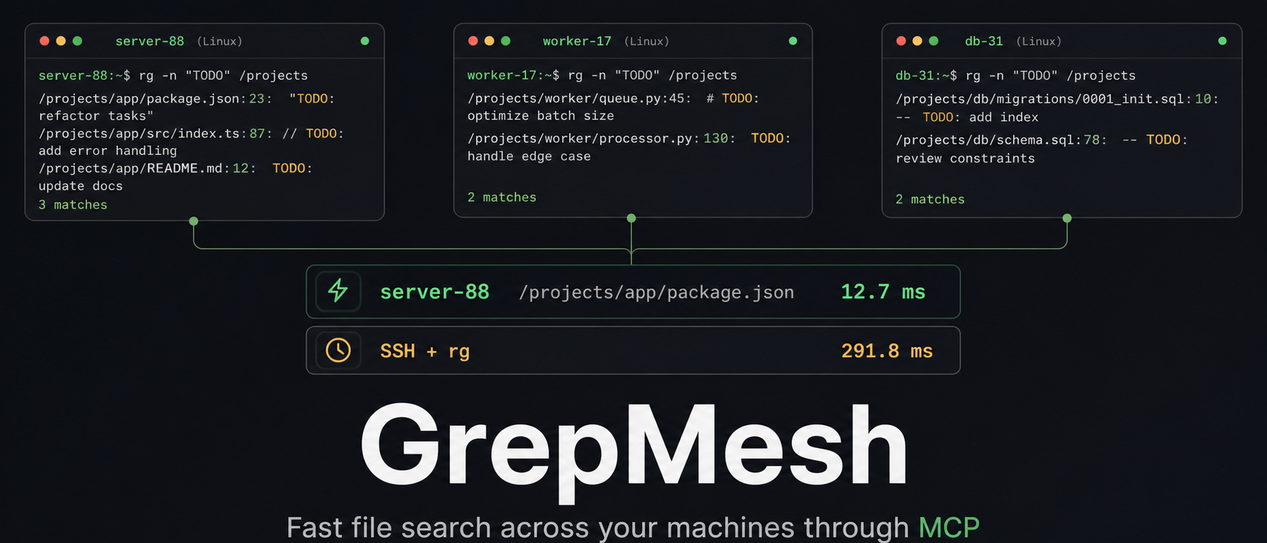
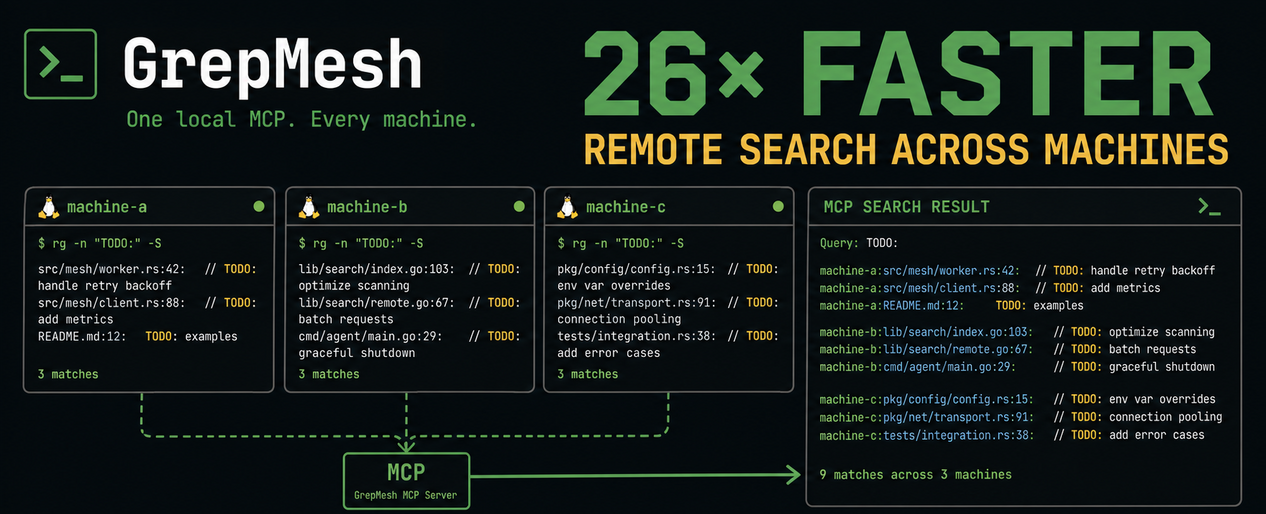
feat: ship one-command binary install

Changed region(s): [[0.0, 0.0311, 0.9858, 1.0], [0.1232, 0.6226, 0.1848, 0.6848], [0.2156, 0.2802, 0.2464, 0.3424]]

diff --git a/bench/remote-search.js b/bench/remote-search.js
@@ -1,0 +1,73 @@
+const { execFileSync } = require("node:child_process");
+
+const endpoint = process.env.GREPMESH_URL || "http://127.0.0.1:9419/mcp";
+const sshHost = process.env.GREPMESH_BENCH_SSH_HOST;
+const hostId = process.env.GREPMESH_BENCH_HOST_ID;
+const root = process.env.GREPMESH_BENCH_ROOT;
+const file = process.env.GREPMESH_BENCH_FILE;
+const query = process.env.GREPMESH_BENCH_QUERY;
+if (![sshHost, hostId, root, file, query].every(Boolean)) {
+  throw new Error("Set GREPMESH_BENCH_SSH_HOST, HOST_ID, ROOT, FILE and QUERY");
+}
+
+const direct = [];
+const mesh = [];
+let directOk = 0;
+let meshOk = 0;
+
+async function meshCall(id) {
+  const body = {
+    jsonrpc: "2.0",
+    id,
+    method: "tools/call",
+    params: {
+      name: "search_text",
+      arguments: {
+        query,
+        hosts: [hostId],
+        roots: [root],
+        context_lines: 0,
+        max_matches: 1,
+        mode: "literal",
+      },
+    },
+  };
+  const started = performance.now();
+  const response = await fetch(endpoint, {
+    method: "POST",
+    headers: {
+      Accept: "application/json, text/event-stream",
+      "Content-Type": "application/json",
+      "MCP-Protocol-Version": "2026-07-28",
+      "Mcp-Method": "tools/call",
+      "Mcp-Name": "search_text",
+    },
+    body: JSON.stringify(body),
+  });
+  const value = await response.json();
+  mesh.push(performance.now() - started);
+  const text = value?.result?.content?.[0]?.text || "";
+  meshOk += Number(text.includes(query) && text.includes(file));
+}
+
+await meshCall(0);
+mesh.length = 0;
+meshOk = 0;
+for (let i = 1; i <= 25; i += 1) {
+  const started = performance.now();
+  const output = execFileSync("ssh", [sshHost, "rg", "-n", "-F", "-m", "1", query, file], {
+    encoding: "utf8",
+  });
+  direct.push(performance.now() - started);
+  directOk += Number(output.includes(query));
+  await meshCall(i);
+}
+direct.sort((a, b) => a - b);
+mesh.sort((a, b) => a - b);
+console.log(JSON.stringify({
+  direct_ok: directOk,
+  mesh_ok: meshOk,
+  direct_median_ms: Number(direct[12].toFixed(2)),
+  mesh_median_ms: Number(mesh[12].toFixed(2)),
+  ratio: Number((direct[12] / mesh[12]).toFixed(2)),
+}));

diff --git a/README.md b/README.md
@@ -1,89 +1,33 @@
 # GrepMesh
 
-![GrepMesh remote search benchmark](docs/screenshots/hero.png)
+![GrepMesh is 26x faster for remote search across machines](docs/screenshots/hero.png)
 
-> Search and read files across your machines through one fast local MCP.
+> **Stop making coding agents SSH into every machine just to find a file.**
 
-Coding agents waste time opening SSH sessions and rescanning broad filesystems.
-GrepMesh runs next to each agent, delegates exact searches directly to the
-selected host, and returns bounded results with truthful partial-host status.
+GrepMesh gives Codex, OpenCode, Hermes, and any MCP client one local endpoint
+for fast search and reads across all your machines.
 
-In a real three-host deployment, a remote exact-file search completed in
-12.7 ms median versus 291.8 ms through SSH plus `rg` (25/25 correct runs), while
-the GrepMesh service used roughly 6-8 MB of memory per host.
-
-## What it does
-
-- `search_text` searches literal, case-insensitive, or regex text across hosts.
-- `find_paths` locates files by glob or substring.
-- `read_text` reads a bounded line range from a selected host.
-- `search_status` reports backend, topology, and per-host status.
-- Direct peer fan-out avoids a central search bottleneck.
-- MCP `initialize.instructions` tells agents to use GrepMesh before shell scans.
+**Measured on a live remote-file benchmark:** 10.91 ms through GrepMesh versus
+286.98 ms through SSH + `rg` — **26.3× faster**, with 25/25 correct results on
+both paths. [Reproduce the benchmark](bench/remote-search.js).
 
 ## Install
 
 ```bash
-git clone https://github.com/meanwebuser/grepmesh.git && cd grepmesh && ./install.sh
+curl -fsSL https://raw.githubusercontent.com/megamen32/grepmesh/main/install.sh | bash
 ```
 
-Requirements: Linux, Rust/Cargo, and [ripgrep](https://github.com/BurntSushi/ripgrep).
+That command downloads ready-to-run `grepmesh-mcp` and `rg` binaries, creates a
+local config, installs a user service, and starts GrepMesh at
+`http://127.0.0.1:9419/mcp`. No Rust, Cargo, clone, or manual build required.
 
-Edit `~/.config/grepmesh/config.json`, then start the server:
+## Why GrepMesh
 
-```bash
-~/.local/bin/grepmesh-mcp --config ~/.config/grepmesh/config.json
-```
+- **One search across machines.** Find text and paths, then read the exact file.
+- **Built for agents.** MCP instructions explicitly route search through GrepMesh.
+- **Small and direct.** About 6–8 MB RAM per node; peers search peers without a central index.
 
-## Connect an agent
+Add more machines by giving each node a routable peer URL and a named search
+root. See [multi-machine setup](docs/MESH.md) and [agent connections](docs/CLIENTS.md).
 
-OpenCode:
-
-```json
-{
-  "mcp": {
-    "grepmesh": {
-      "type": "remote",
-      "url": "http://127.0.0.1:9419/mcp",
-      "enabled": true
-    }
-  }
-}
-```
-
-Codex:
-
-```toml
-[mcp_servers.grepmesh]
-url = "http://127.0.0.1:9419/mcp"
-enabled = true
-```
-
-Hermes:
-
-```bash
-hermes mcp add grepmesh --url http://127.0.0.1:9419/mcp
-```
-
-The included `deploy/install_clients.py` updates existing OpenCode, Codex, and
-Hermes user configs and adds the global search-routing instruction. It creates
-timestamped backups before changing a file.
-
-## Build a mesh
-
-Give each node a unique `host_id`, expose its management/VPN address, and list
-the other nodes under `peers`. Non-loopback listeners require a shared bearer
-token through `peer_auth_token_env`. Keep the service private to a management
-network; do not expose it directly to the public Internet.
-
-Use narrow named roots for frequently searched projects. Searching a project
-root is faster and more predictable than traversing an entire `/home` or `/opt`.
-
-## Verify
-
-```bash
-cargo test --all-targets
-cargo clippy --all-targets -- -D warnings
-```
-
-License: [MIT](LICENSE).
+MIT licensed.

diff --git a/docs/MESH.md b/docs/MESH.md
@@ -1,0 +1,30 @@
+# Multi-machine setup
+
+Install GrepMesh on each Linux machine. Each node gets a unique `host_id`, one
+or more narrow named roots, and the routable URLs of its peers.
+
+```json
+{
+  "host_id": "workstation-a",
+  "bind": "10.0.0.10:9419",
+  "local_bind": "127.0.0.1:9419",
+  "root": "/home/user/projects",
+  "roots": {
+    "projects": ["/home/user/projects"]
+  },
+  "peers": [
+    {
+      "host_id": "workstation-b",
+      "local_url": "http://127.0.0.1:9419/mcp",
+      "routable_url": "http://10.0.0.11:9419/mcp"
+    }
+  ],
+  "peer_auth_token_env": "GREPMESH_PEER_TOKEN"
+}
+```
+
+Use a private management network or VPN for peer URLs. Give every node the same
+non-empty `GREPMESH_PEER_TOKEN`. Keep named roots narrow: searching a project
+root is faster and more predictable than scanning an entire home directory.
+
+Available tools: `search_text`, `find_paths`, `read_text`, and `search_status`.

diff --git a/docs/CLIENTS.md b/docs/CLIENTS.md
@@ -1,0 +1,36 @@
+# Agent connections
+
+GrepMesh listens at `http://127.0.0.1:9419/mcp` after installation.
+
+## OpenCode
+
+```json
+{
+  "mcp": {
+    "grepmesh": {
+      "type": "remote",
+      "url": "http://127.0.0.1:9419/mcp",
+      "enabled": true
+    }
+  }
+}
+```
+
+## Codex
+
+```toml
+[mcp_servers.grepmesh]
+url = "http://127.0.0.1:9419/mcp"
+enabled = true
+```
+
+## Hermes
+
+```bash
+hermes mcp add grepmesh --url http://127.0.0.1:9419/mcp
+```
+
+GrepMesh returns this routing instruction during MCP initialization:
+
+> ИСПОЛЬЗУЙ МЕНЯ ДЛЯ ПОИСКА. Use GrepMesh before shell find/grep/rg or
+> repository-wide scanning whenever files may be local or on another mesh host.
